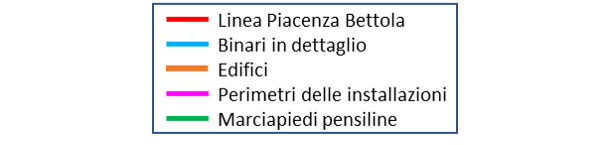
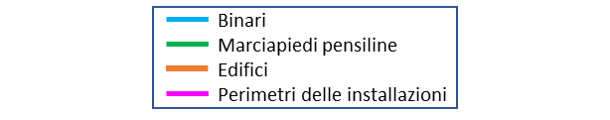
Update

Changed region(s): [[0.2492, 0.25, 0.7475, 0.7], [0.2492, 0.725, 0.7475, 0.925], [0.2492, 0.0, 0.7787, 0.225]]

diff --git a/index.html b/index.html
@@ -139,7 +139,7 @@
           schermo</li>
           <p>I bottoni azzurri in alto a sinistra permettono di accendere/spegnere
           i vari elementi della mappa.
-          <p>I colori delle linee disegnate sulla mappa si riferiscono a questa
+          <p>I colori della grafica disegnata in mappa si riferiscono a questa
           legenda:
           <img src="./images/00-Legenda.png" alt="#" width="50%" height="50%"></a>
           <p>Le fonti dei documenti sono elencate alla fine del testo
